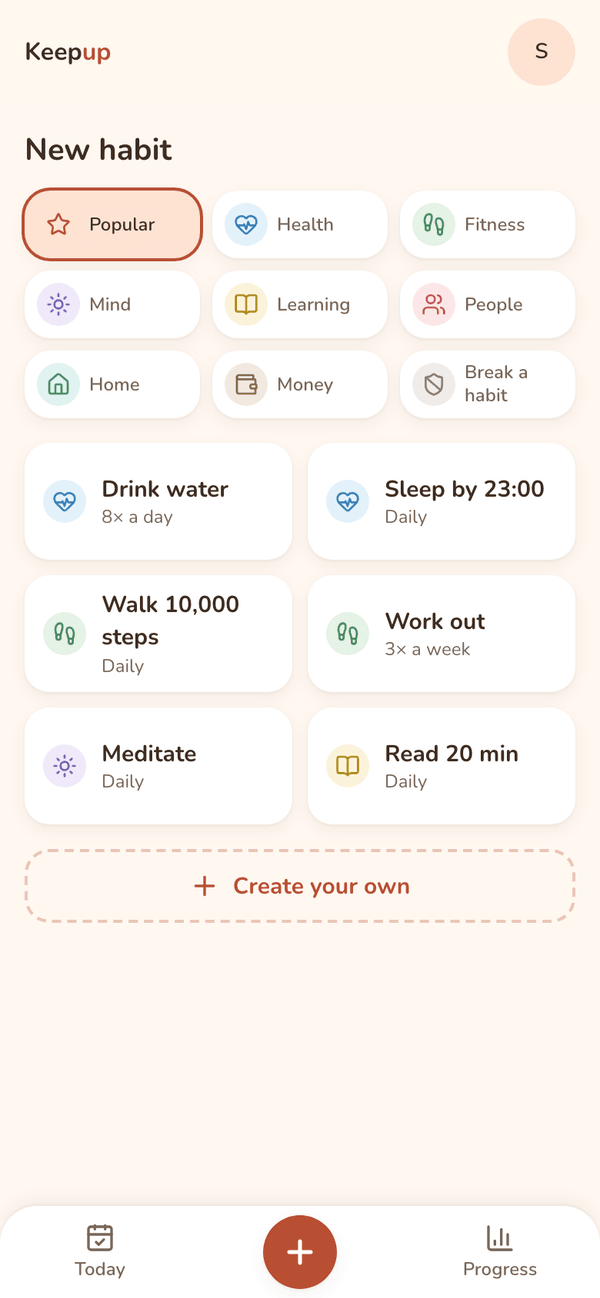
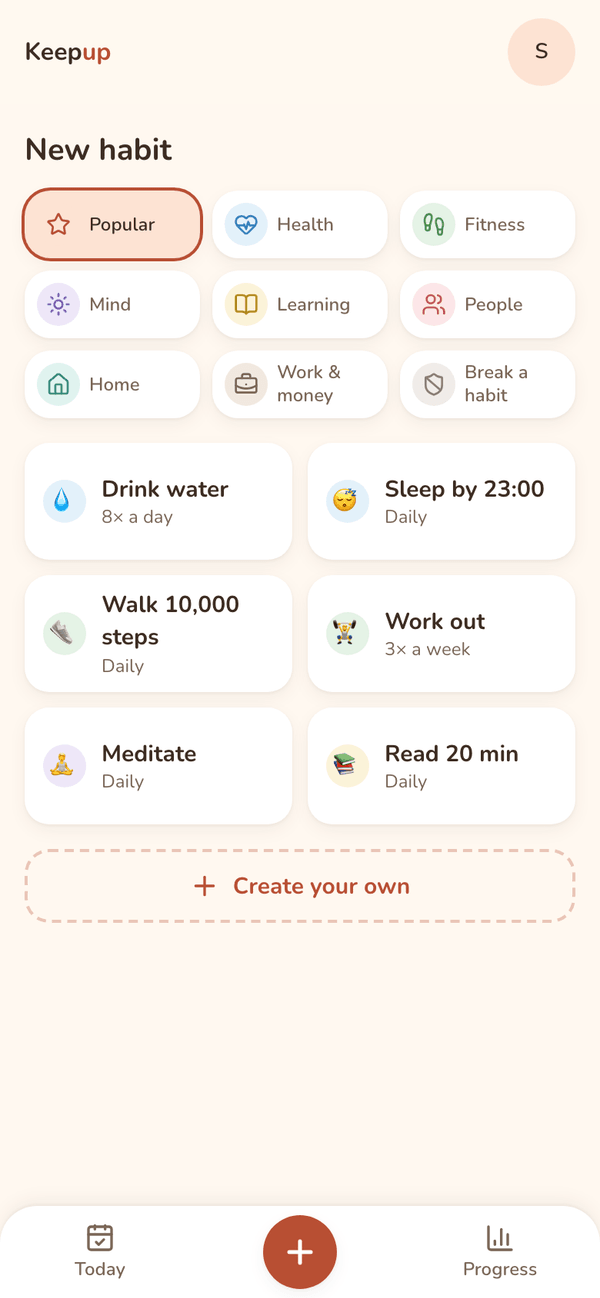
docs: README for v0.3.0: M2 done, new screenshots, emoji and weekly overview

diff --git a/README.md b/README.md
@@ -16,14 +16,15 @@ A warm, mobile-first habit tracker for one person and for families. Pick a habit
 
 ## What works today
 
-- **Today:** a card per habit with one-tap check-in, progress (e.g. `3 / 8 today`, `1 of 3 this week`) and a streak badge. It lists what's left to do first, then **Done**, then **Later** (habits that start later, or paused ones).
-- **Ready-made habits:** 39 templates across 8 categories, or create your own. Schedules are *X times a day, week or month*. Choose a start date (today, tomorrow, next week, or any day on the calendar).
+- **Today:** a "This week" strip (done so far, best streak), then a card per habit with its emoji, one-tap check-in, progress (e.g. `3 / 8 today`, `1 of 3 this week`) and a streak badge. It lists what's left to do first, then **Done**, then **Later** (habits that start later, or paused ones).
+- **Ready-made habits:** 48 templates, 6 in each of 8 categories (Health, Fitness, Mind, Learning, People, Home, Work & money, Break a habit), or create your own with any emoji. Schedules are *X times a day, week or month*. Choose a start date (today, tomorrow, next week, or any day on the calendar).
 - **Habit page:**
   - this period's check-ins, with undo;
   - current and best streak, and history;
   - pause (with an optional end date) and resume;
   - edit the habit; delete it (only if it has no check-ins) or archive it (keeps its history).
-- **Progress:** active and archived habits by category.
+- **Progress:** a "Your week" card (days, streaks, check-ins), and active and archived habits by category, each with its last 7 days as dots.
+- **Onboarding:** name, detected time zone and week start, then pick up to 3 habits to start with.
 - **Fair streaks:**
   - Periods follow your time zone and your week start (Sunday or Monday).
   - A pause never breaks a streak.
@@ -39,9 +40,9 @@ A warm, mobile-first habit tracker for one person and for families. Pick a habit
 | Milestone | What | Status |
 |---|---|---|
 | M1 | Foundation: auth (Google, magic link), profiles, CI, staging deploys, versioning | ✅ v0.2.0 |
-| M2 | Private habits: templates, check-ins, streaks, pauses, habit page, progress | 🚧 in progress |
+| M2 | Private habits: templates, check-ins, streaks, pauses, habit page, progress, weekly overview, onboarding | ✅ v0.3.0 |
 | M3 | Groups and family: shared habits, approvals, kid profiles with a star garden, emoji avatars, backups | Planned |
-| M4 | Installable app (PWA), push reminders, Face ID sign-in | Planned |
+| M4 | Installable app (PWA), push reminders, offline check-ins | Planned |
 | M5 | XP, levels, badges, rest days, weekly recaps | Planned |
 | M6 | Landing page, "Try it" demo, privacy page and data export → **v1.0.0** | Planned |
 
@@ -56,7 +57,7 @@ Next.js 16 (App Router, Server Actions) on Vercel · Supabase (Postgres with Row
   - Playwright end-to-end tests on a phone viewport, including a guard that every template tab fits on an iPhone SE screen.
 - **Flow:** `feature/*` → PR → `develop` (staging) → release PR → `main` (production).
 
-More: [Architecture](docs/architecture.md) (request path, security layers, scaling) · [Design](docs/design.md) (colours, type, motion, voice).
+More: [Architecture](docs/architecture.md) (request path, security layers, scaling) · [Design](docs/design.md) (colours, type, motion, voice) · [Decisions](docs/decisions/README.md) (why things are the way they are).
 
 ## Run locally
 
